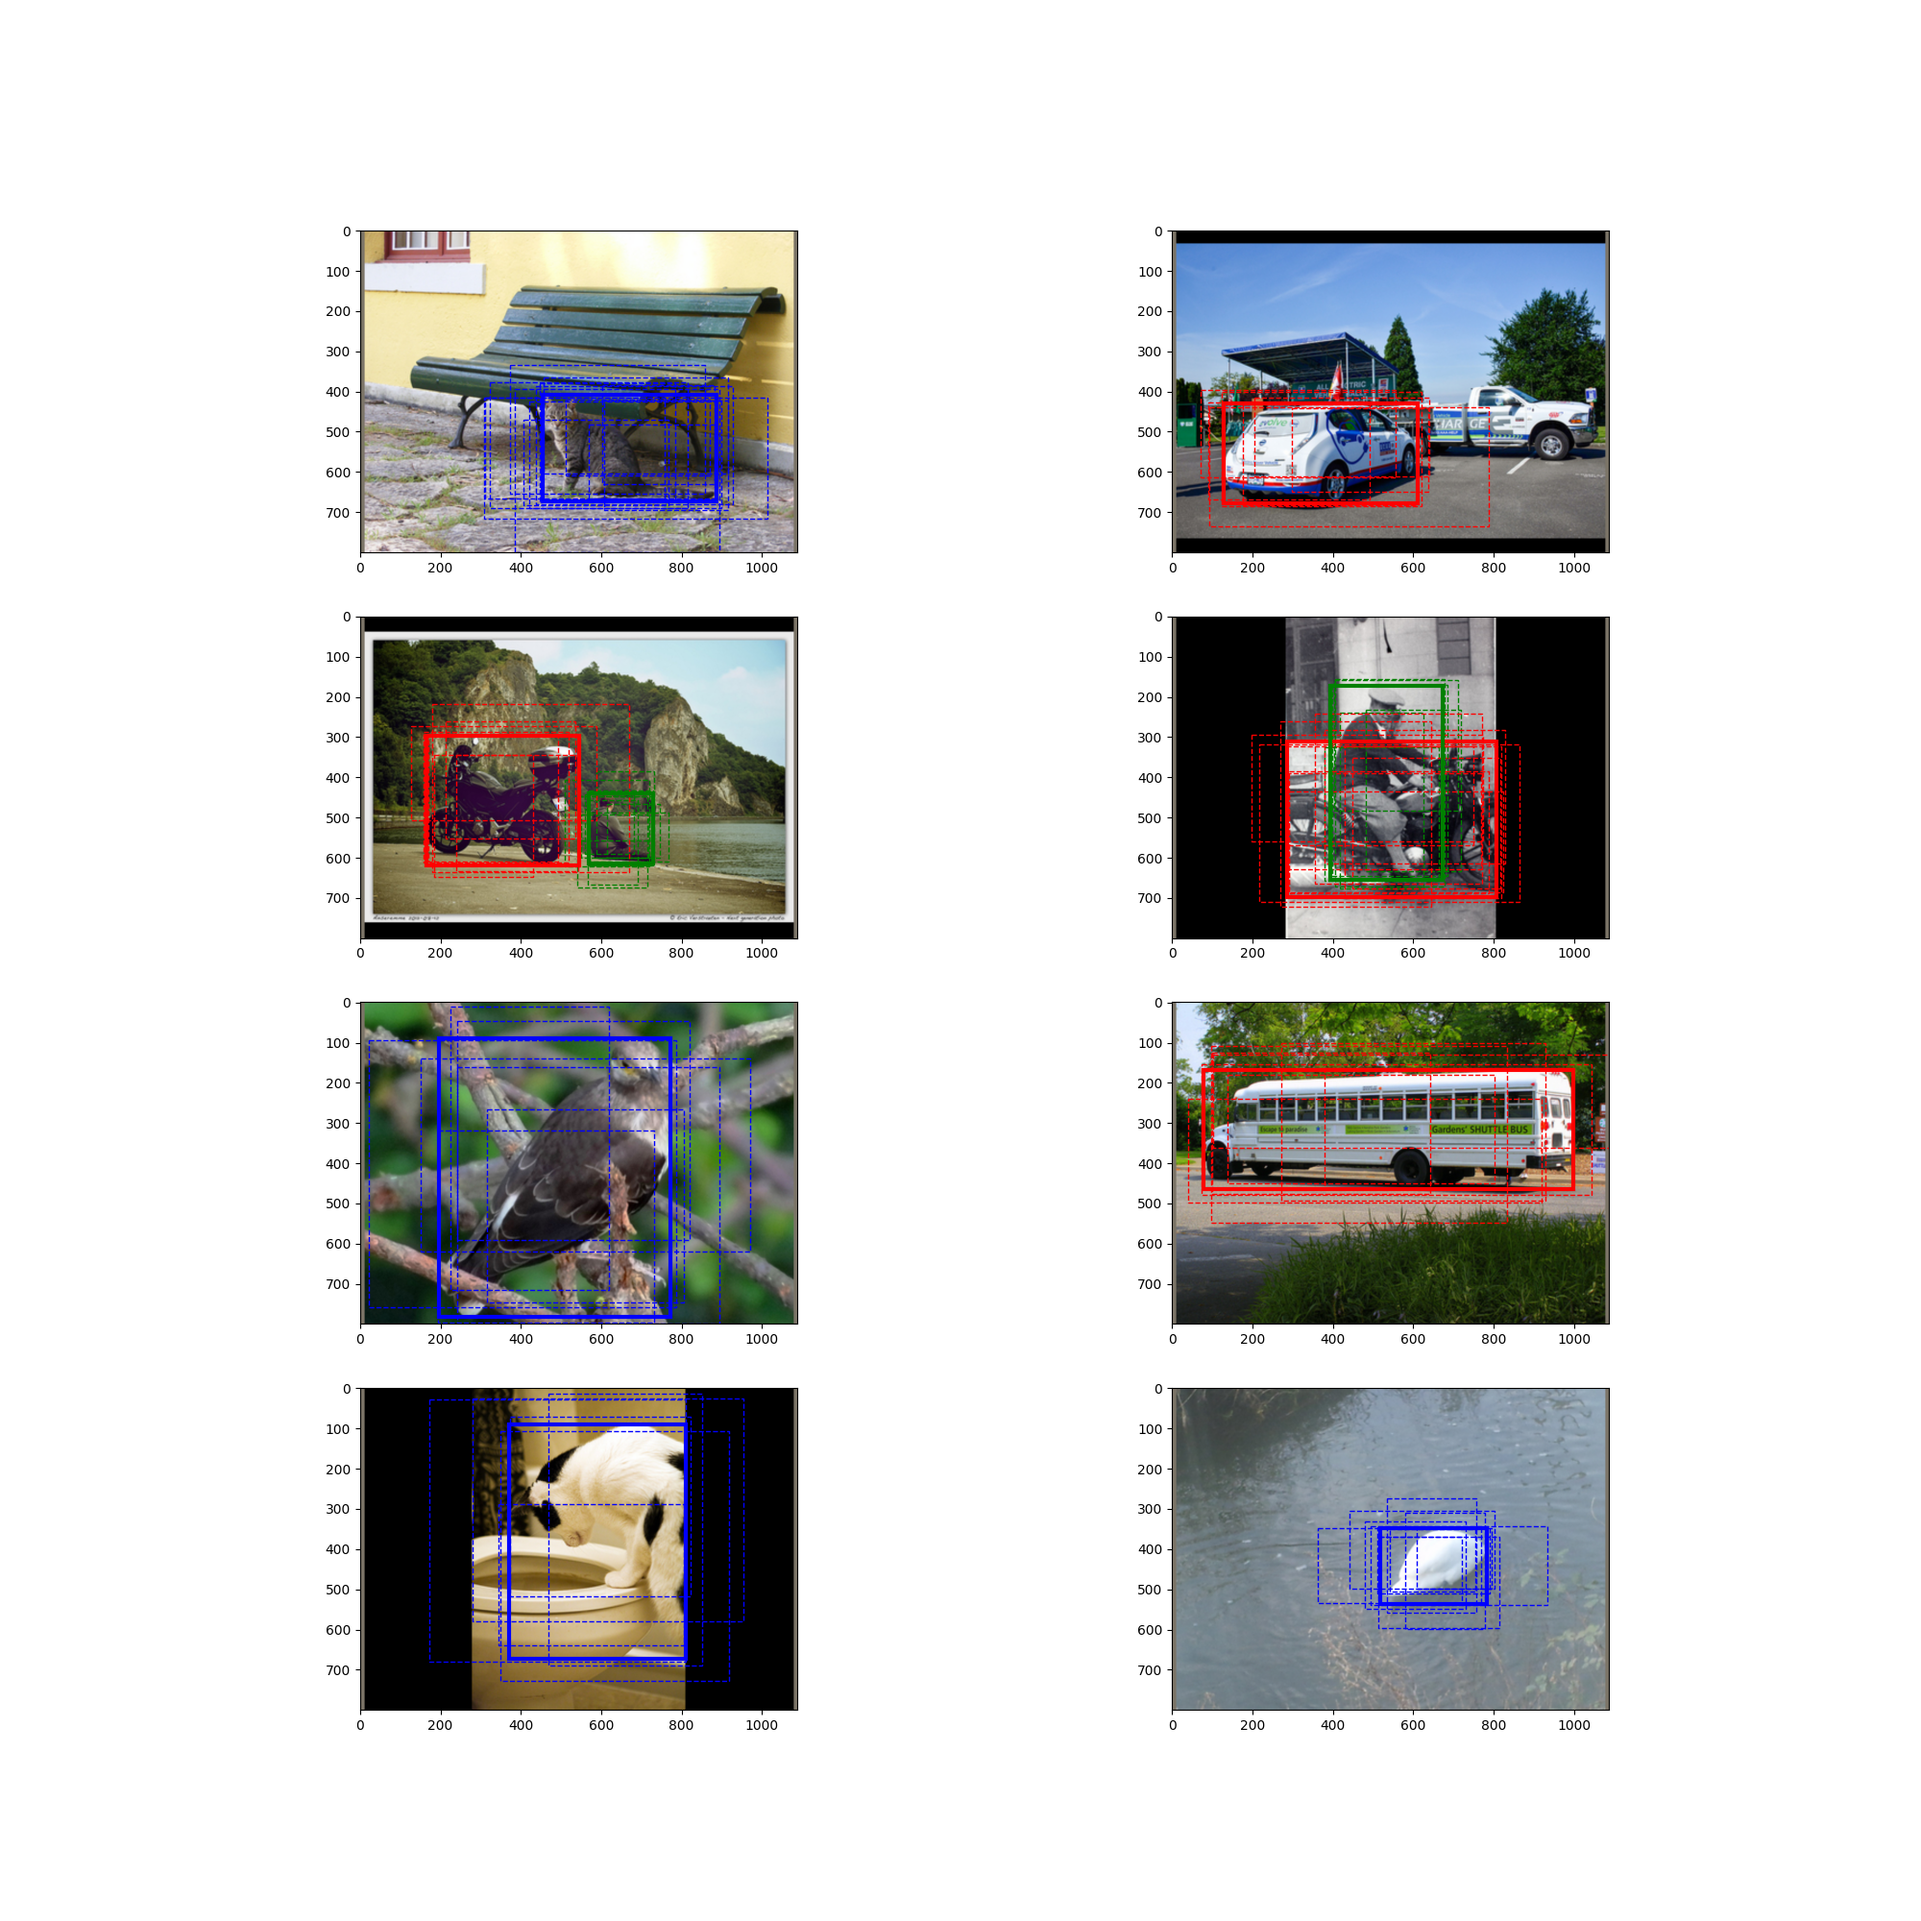
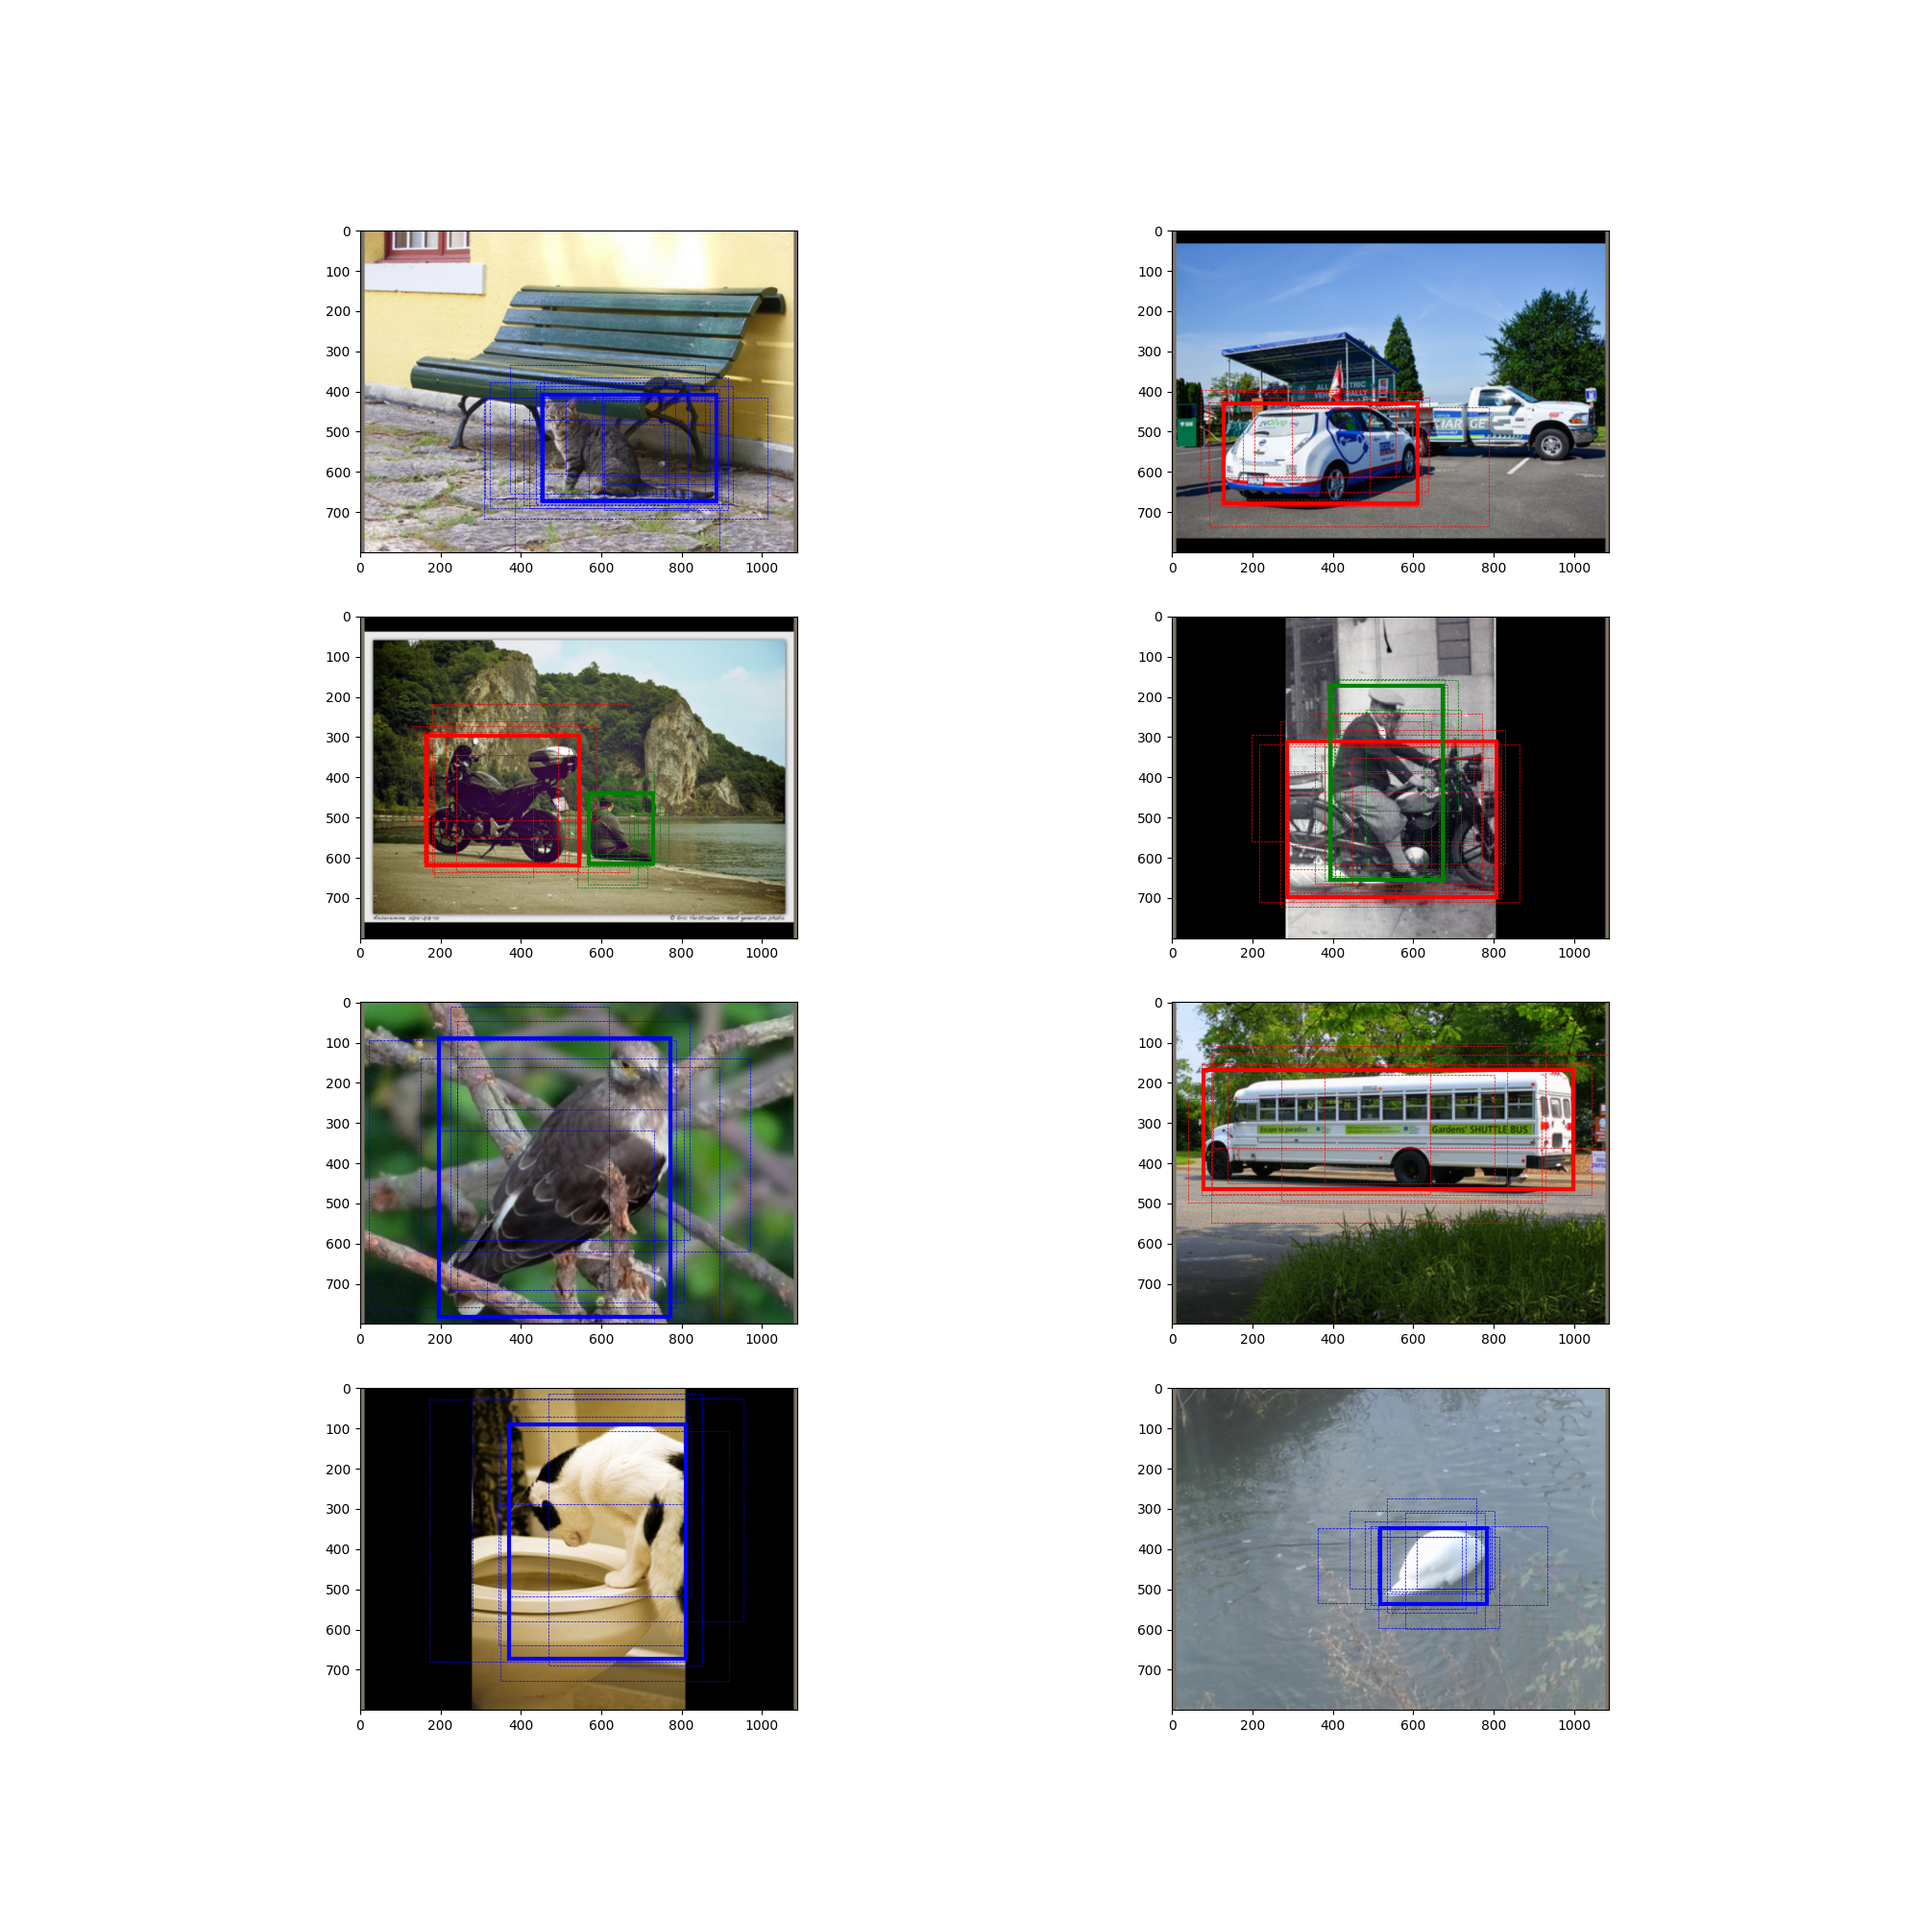
updated README.md and added plots

diff --git a/README.md b/README.md
@@ -1,6 +1,9 @@
 ## Image plots of the proposals with the no-background classes and their ground truth boxes
 
 ![Proposals](plots/proposals.png)
+![Proposals](plots/proposals_2.png)
+*The thick solid boxes represent the ground truth, while the thin dashed boxes are the proposals*
+
 
 ## Training and Validation curves of the total loss, the loss of the classifier, and the loss of the regressor of the Box Head
 ![Training Plot](plots/training_plot.png)
